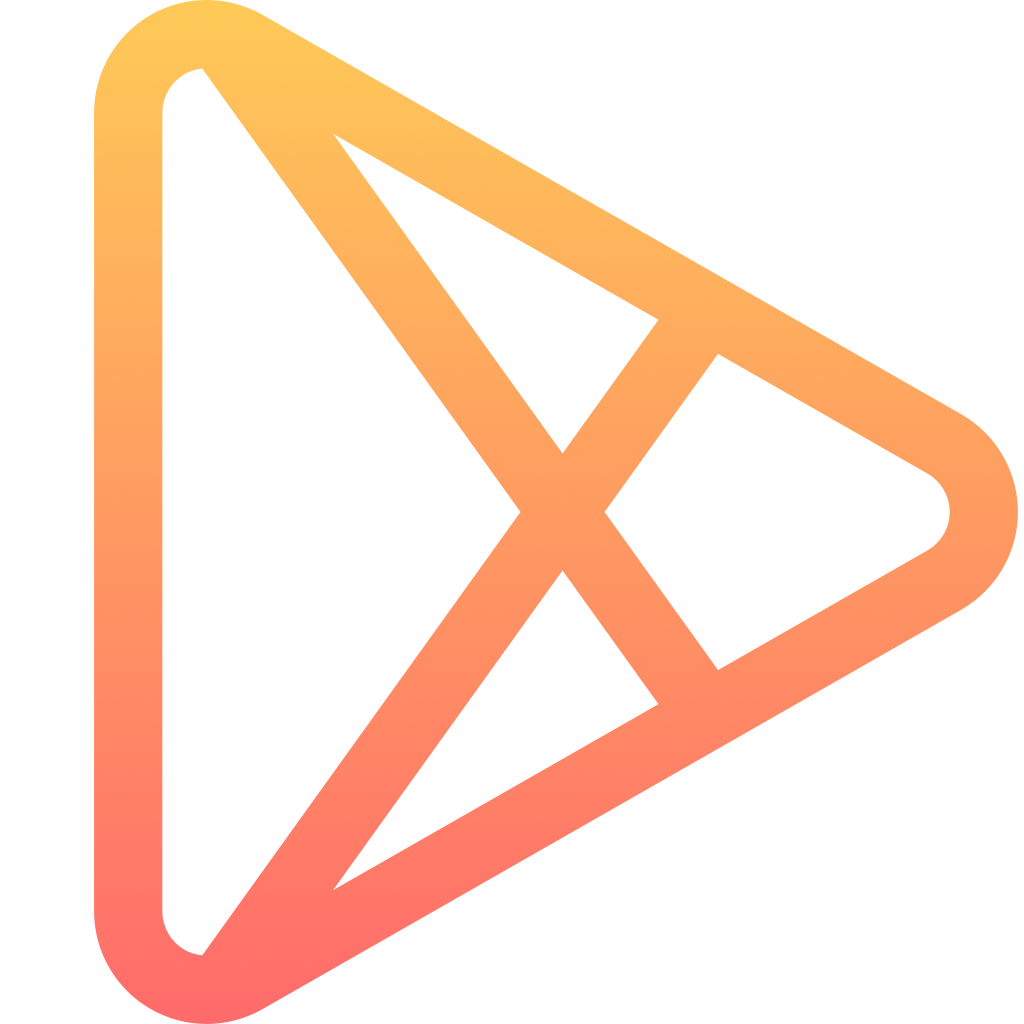
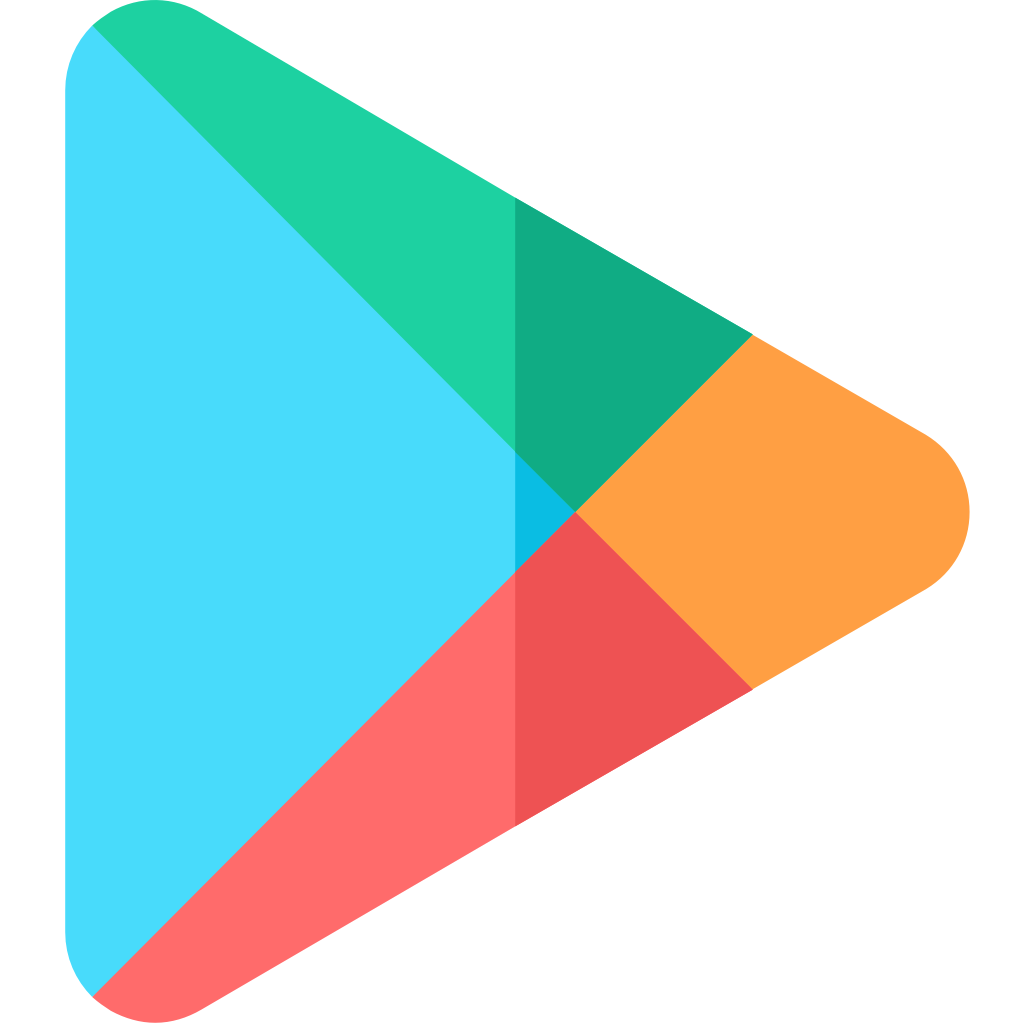
Replace images (#142)
* Replace images

* Replace icons

diff --git a/lib/src/widgets/signed_out_screen/signed_out_screen.dart b/lib/src/widgets/signed_out_screen/signed_out_screen.dart
@@ -18,11 +18,11 @@ class SignedOutScreen extends StatelessWidget {
                   SizedBox(
                     width: 192,
                     height: 192,
-                    child: Image.asset('assets/images/saraka.png'),
+                    child: Image.asset('assets/images/parrot.png'),
                   ),
                   SizedBox(height: 32),
                   Text(
-                    "Saraka",
+                    "Parrot",
                     style: SarakaTextStyles.heading.copyWith(
                       fontSize: 32,
                       fontWeight: FontWeight.w300,
@@ -31,7 +31,7 @@ class SignedOutScreen extends StatelessWidget {
                   ),
                   SizedBox(height: 8),
                   Text(
-                    "Learn by practice.",
+                    "Not study, just be used.",
                     style: SarakaTextStyles.body.copyWith(
                       fontSize: 16,
                       color: SarakaColors.lightRed,

diff --git a/lib/src/widgets/backend_version_incompatible_screen.dart b/lib/src/widgets/backend_version_incompatible_screen.dart
@@ -12,21 +12,10 @@ class BackendVersionIncompatibleScreen extends StatelessWidget {
           child: Column(
             mainAxisAlignment: MainAxisAlignment.center,
             children: [
-              Row(
-                mainAxisAlignment: MainAxisAlignment.center,
-                children: [
-                  SizedBox(
-                    width: 64,
-                    height: 64,
-                    child: Image.asset('assets/images/app-store.png'),
-                  ),
-                  SizedBox(width: 32),
-                  SizedBox(
-                    width: 64,
-                    height: 64,
-                    child: Image.asset('assets/images/play-store.png'),
-                  ),
-                ],
+              SizedBox(
+                width: 128,
+                height: 128,
+                child: Image.asset('assets/images/play-store.png'),
               ),
               SizedBox(height: 32),
               Text(

diff --git a/lib/src/widgets/landing_screen.dart b/lib/src/widgets/landing_screen.dart
@@ -15,11 +15,11 @@ class LandingScreen extends StatelessWidget {
             SizedBox(
               width: 192,
               height: 192,
-              child: Image.asset('assets/images/saraka.png'),
+              child: Image.asset('assets/images/parrot.png'),
             ),
             SizedBox(height: 32),
             Text(
-              "Saraka",
+              "Parrot",
               style: SarakaTextStyles.heading.copyWith(
                 fontSize: 32,
                 fontWeight: FontWeight.w300,
@@ -28,10 +28,10 @@ class LandingScreen extends StatelessWidget {
             ),
             SizedBox(height: 8),
             Text(
-              "Learn by practice.",
+              "Not study, just be used.",
               style: SarakaTextStyles.body.copyWith(
                 fontSize: 16,
-                color: Color(0x00ffffff),
+                color: SarakaColors.lightRed,
               ),
             ),
           ],

diff --git a/lib/src/widgets/maintenance_screen.dart b/lib/src/widgets/maintenance_screen.dart
@@ -18,9 +18,9 @@ class MaintenanceScreen extends StatelessWidget {
               SizedBox(
                 width: 128,
                 height: 128,
-                child: Image.asset('assets/images/maintenance.png'),
+                child: Image.asset('assets/images/development.png'),
               ),
-              SizedBox(height: 16),
+              SizedBox(height: 32),
               Text(
                 "Going to be improved...",
                 style: SarakaTextStyles.heading.copyWith(
